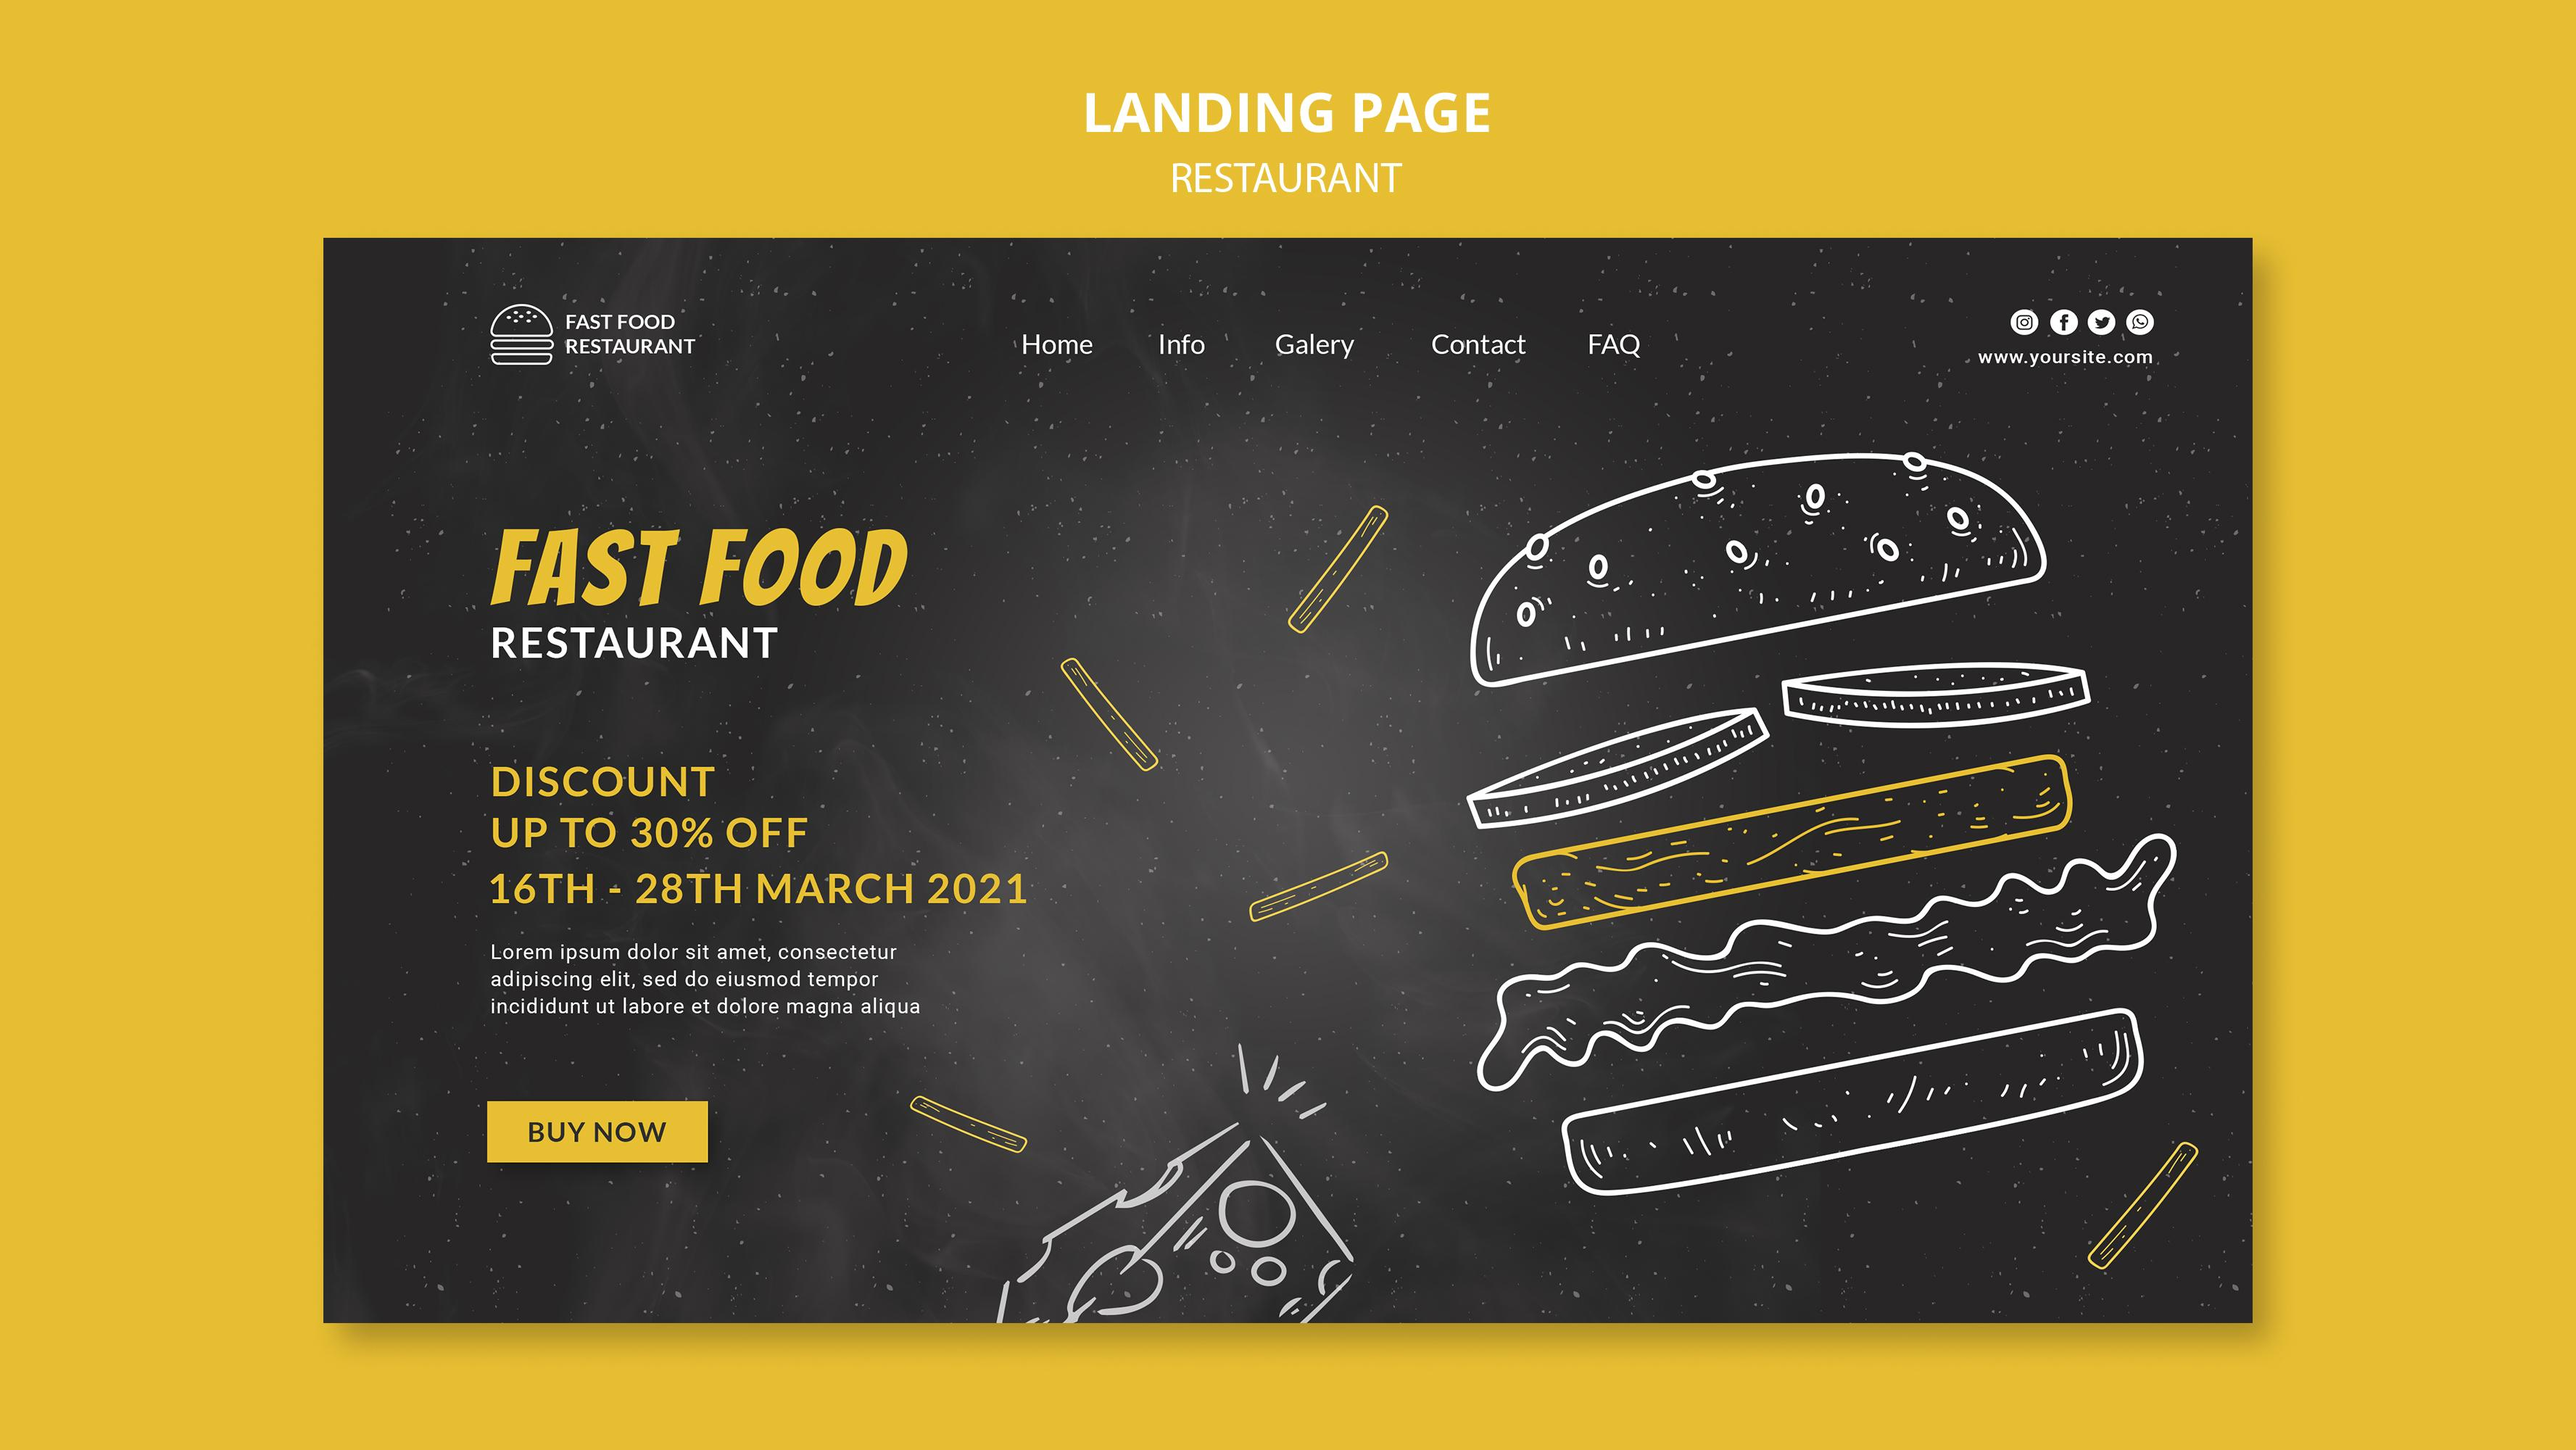
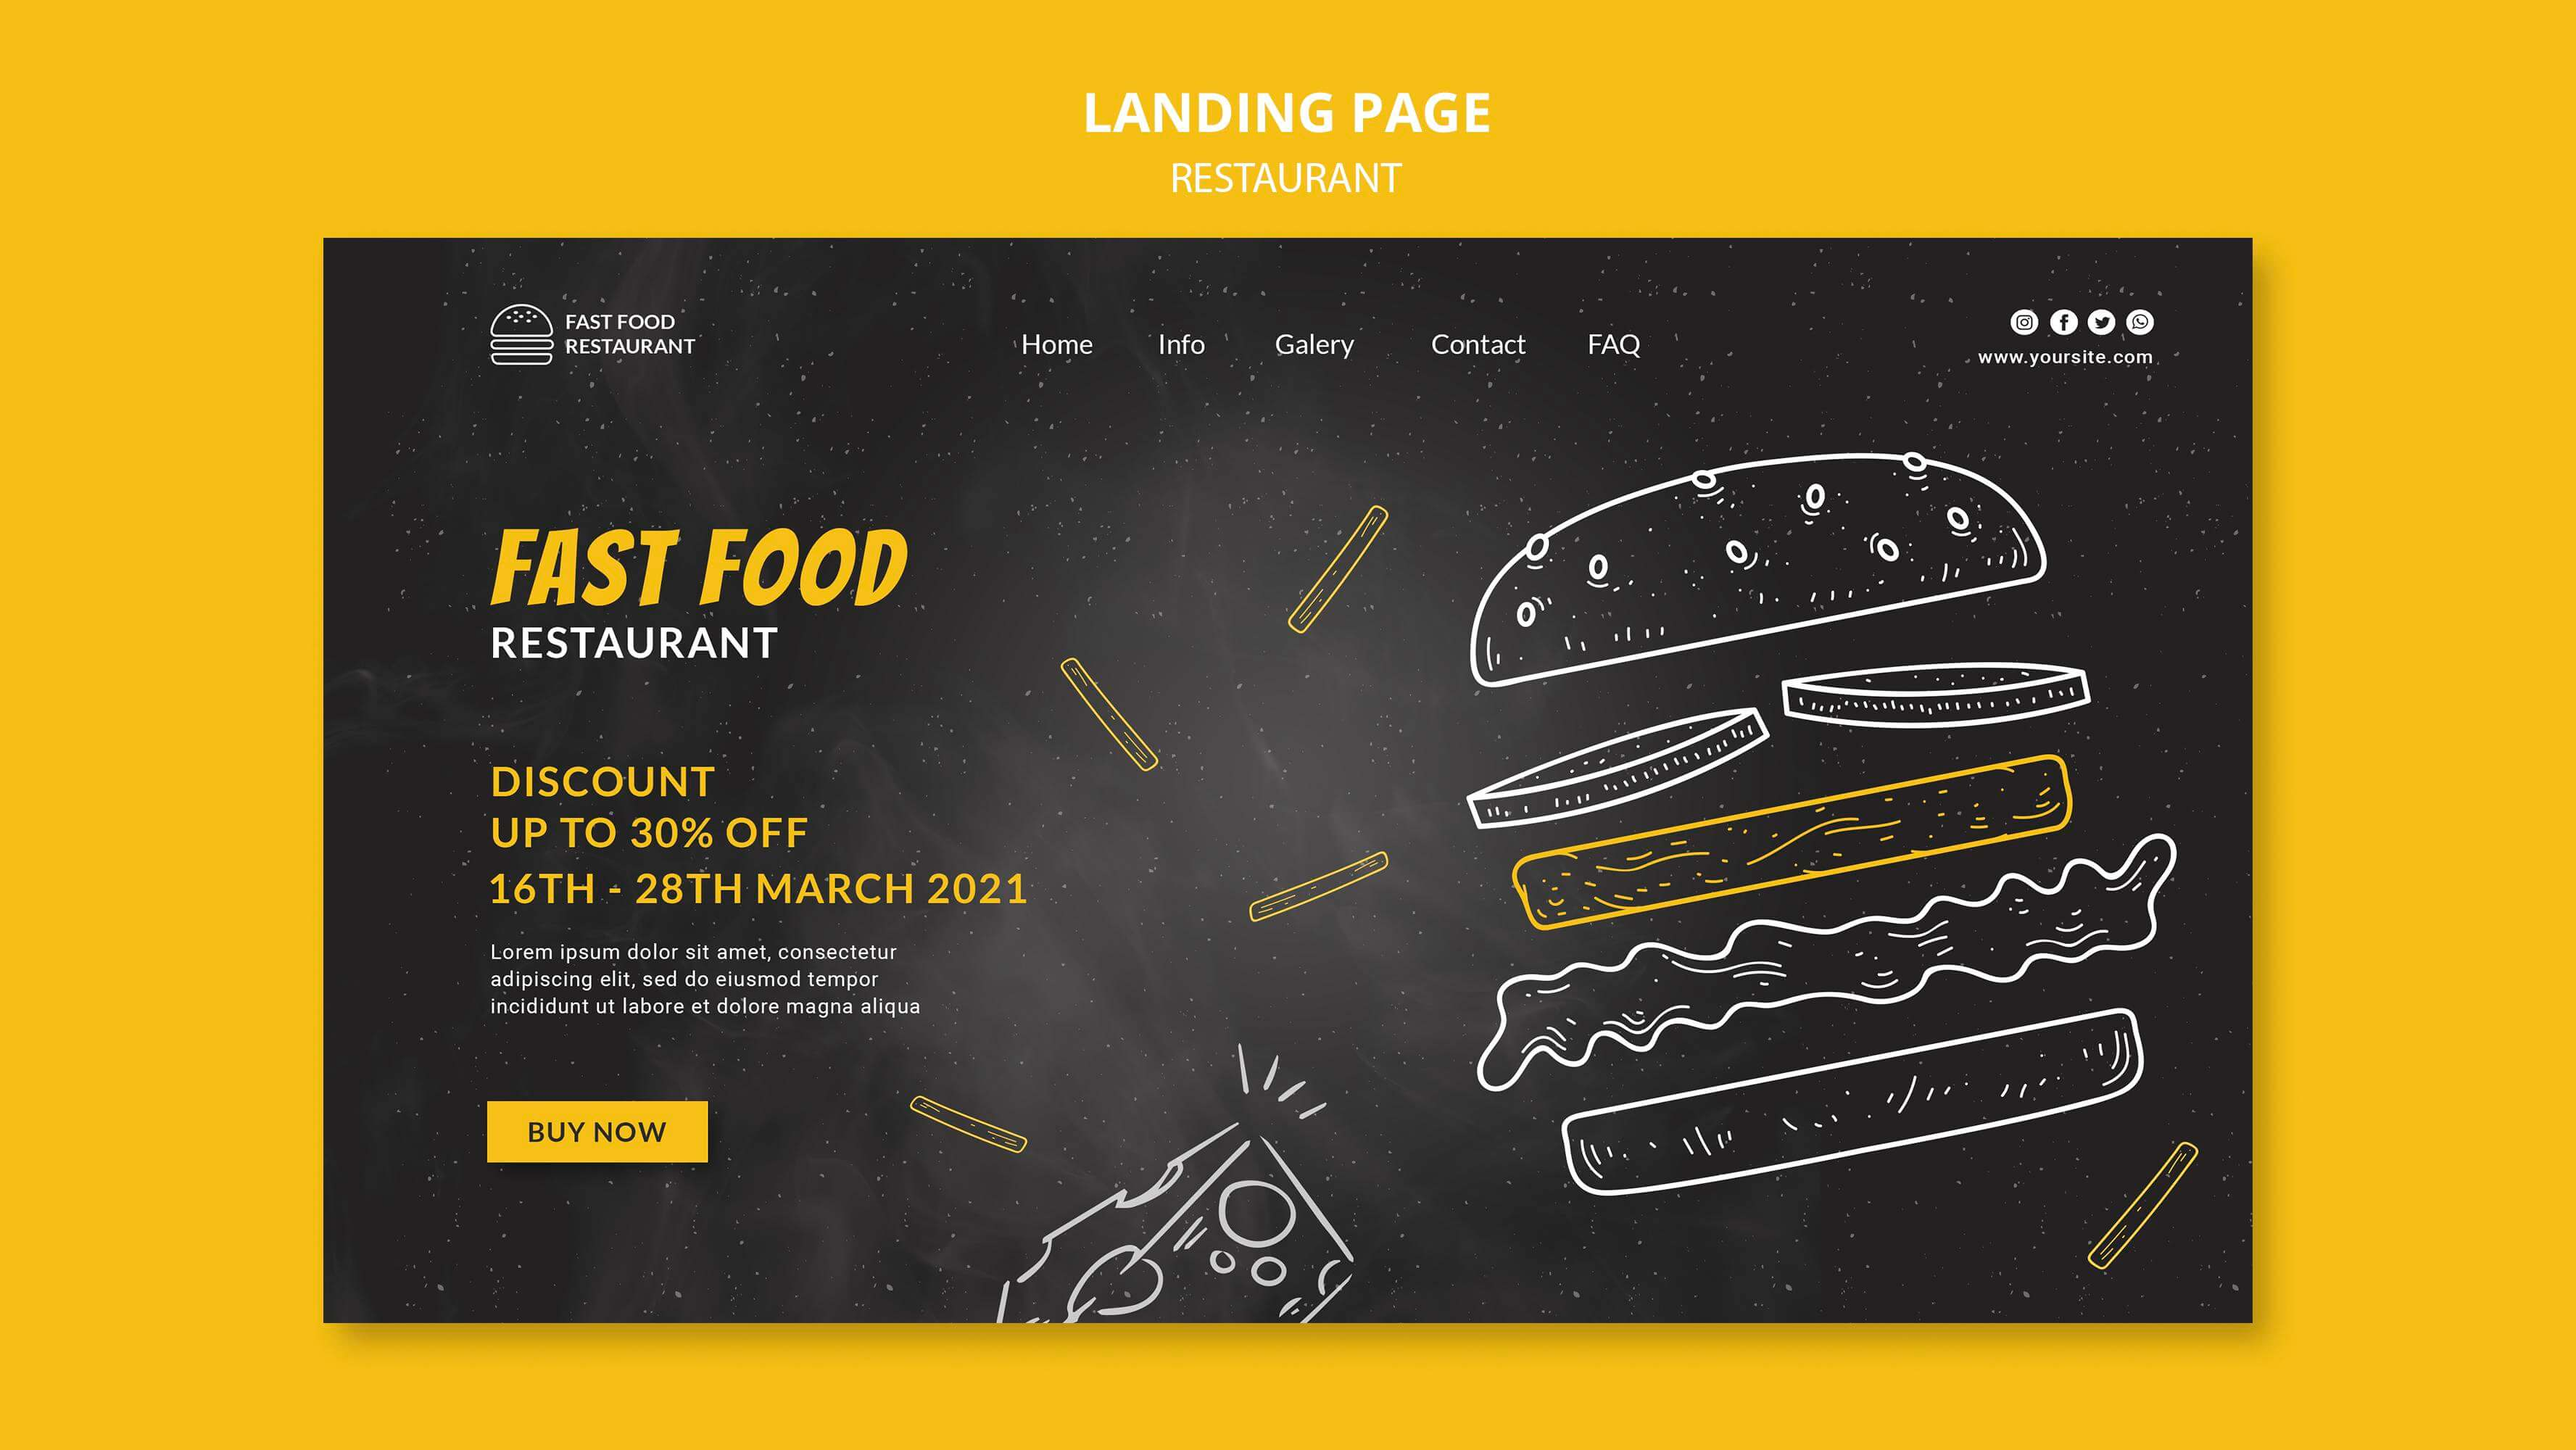
optimizations

diff --git a/css/style.css b/css/style.css
@@ -19,7 +19,7 @@ body {
   height: 100vh;
   font-size: 1rem;
   font-family: var(--font-family);
-  background: url("../img/background-2.png") no-repeat;
+  background: url("../img/background.png") no-repeat;
   background-size: cover;
   background-attachment: center;
   color: var(--color-white);
